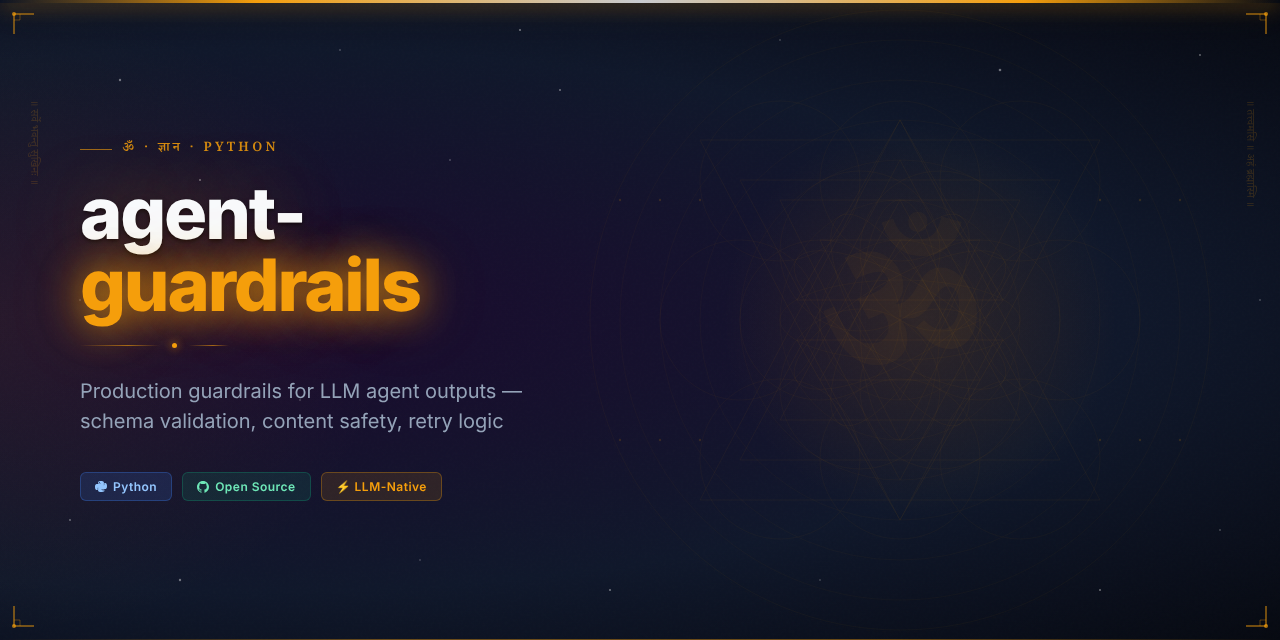
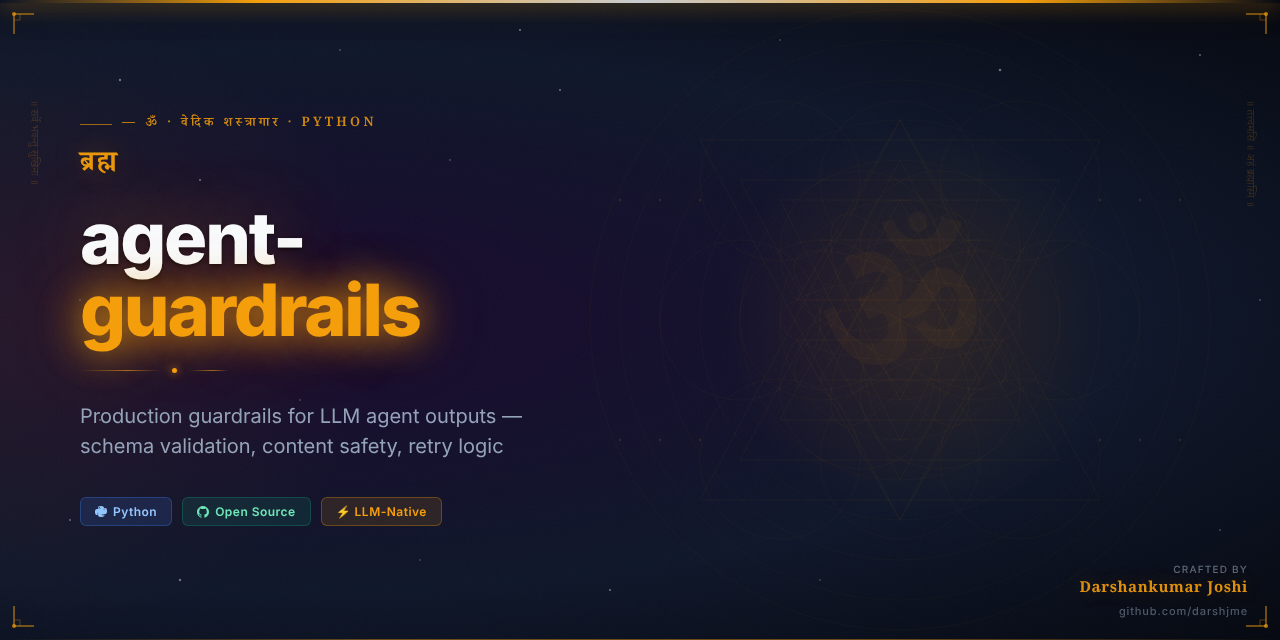
feat: add Vedic Arsenal hero image and updated README
Part of darshjme/arsenal — 100 production-grade Python libraries for LLM agents.
Vedic branding: ancient philosophy meets modern AI engineering.

diff --git a/README.md b/README.md
@@ -1,10 +1,12 @@
 <div align="center">
 
-<img src="assets/agent-guardrails-hero.png" alt="agent-guardrails — Vedic Arsenal" width="100%" />
+<img src="assets/agent-guardrails-hero.png" alt="agent-guardrails — Vedic Arsenal by Darshankumar Joshi" width="100%" />
 
 # ⚡ agent-guardrails
 
-### *ब्रह्म* — Brahma — the universal intelligence
+<h3><em>ब्रह्म</em></h3>
+
+> *Brahma — the universal intelligence*
 
 **Production guardrails for LLM agent outputs — schema validation, content safety, retry logic**
 
@@ -39,6 +41,19 @@ Or clone directly:
 git clone https://github.com/darshjme/agent-guardrails.git
 cd agent-guardrails
 pip install -e .
+```
+
+## How It Works
+
+```mermaid
+flowchart LR
+    A[Input] --> B[agent-guardrails]
+    B --> C{Process}
+    C -- Success --> D[Output]
+    C -- Error --> E[Handle / Retry]
+    E --> B
+    style B fill:#6b21a8,color:#fff
+    note["Guardrails — Zero Dependencies"]
 ```
 
 ## Quick Start
@@ -90,7 +105,7 @@ MIT — use freely, build freely.
 
 <div align="center">
 
-**Built with ⚡ by [Darshankumar Joshi](https://github.com/darshjme)**
+**Built with ⚡ by [Darshankumar Joshi](https://github.com/darshjme)** · [@thedarshanjoshi](https://twitter.com/thedarshanjoshi)
 
 *"कर्मण्येवाधिकारस्ते मा फलेषु कदाचन"*
 *Your right is to action alone, never to the fruits thereof.*
